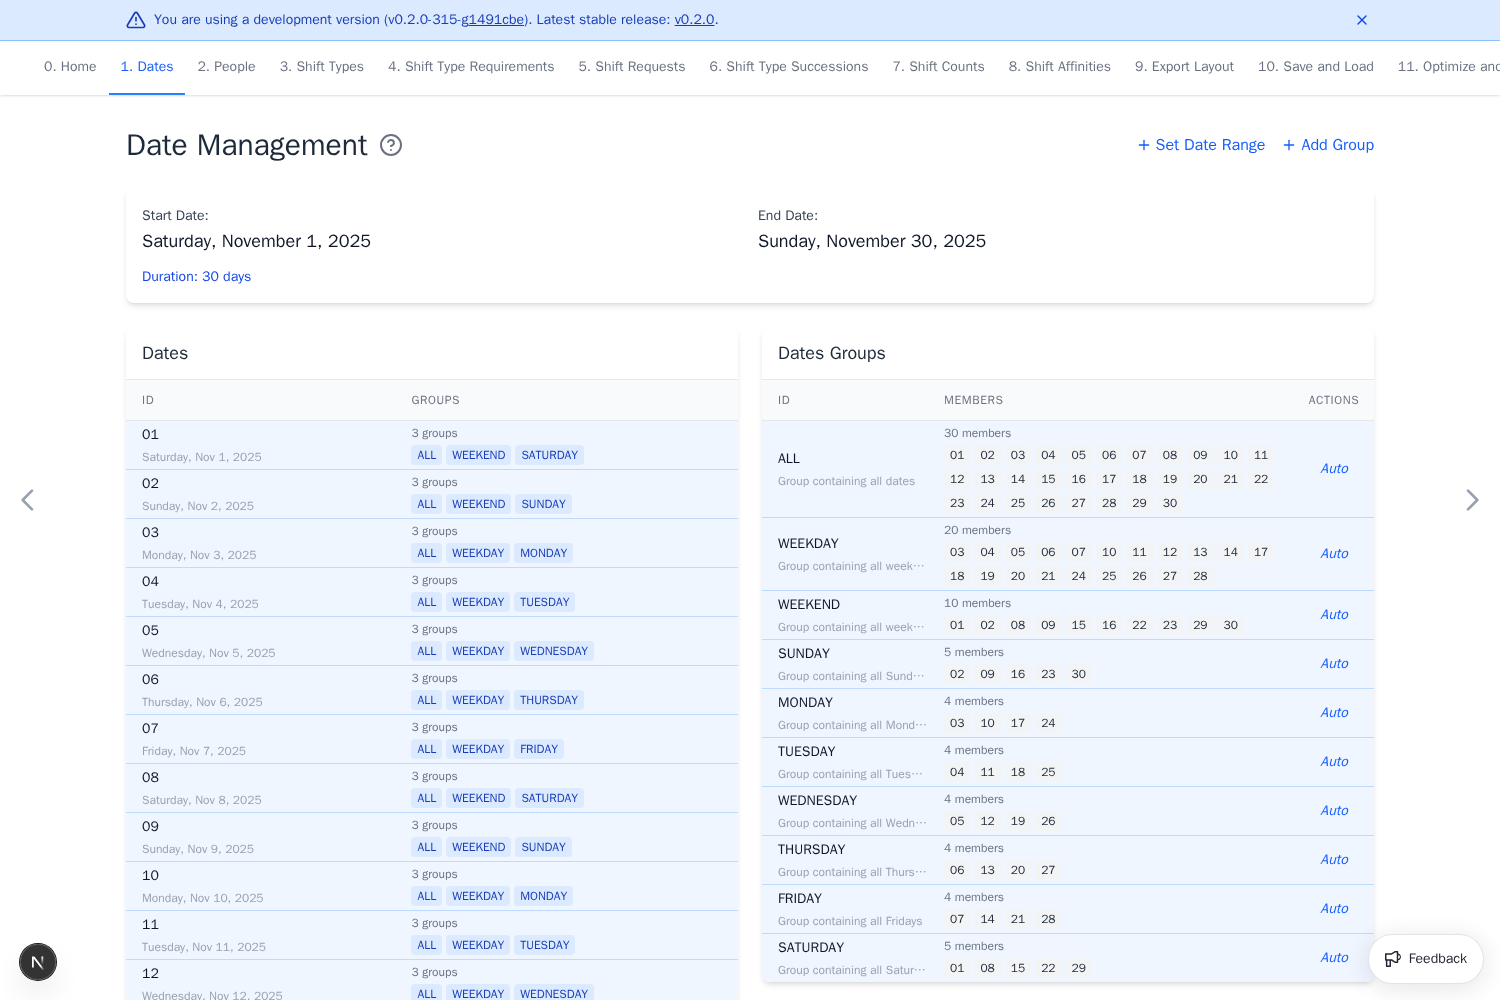
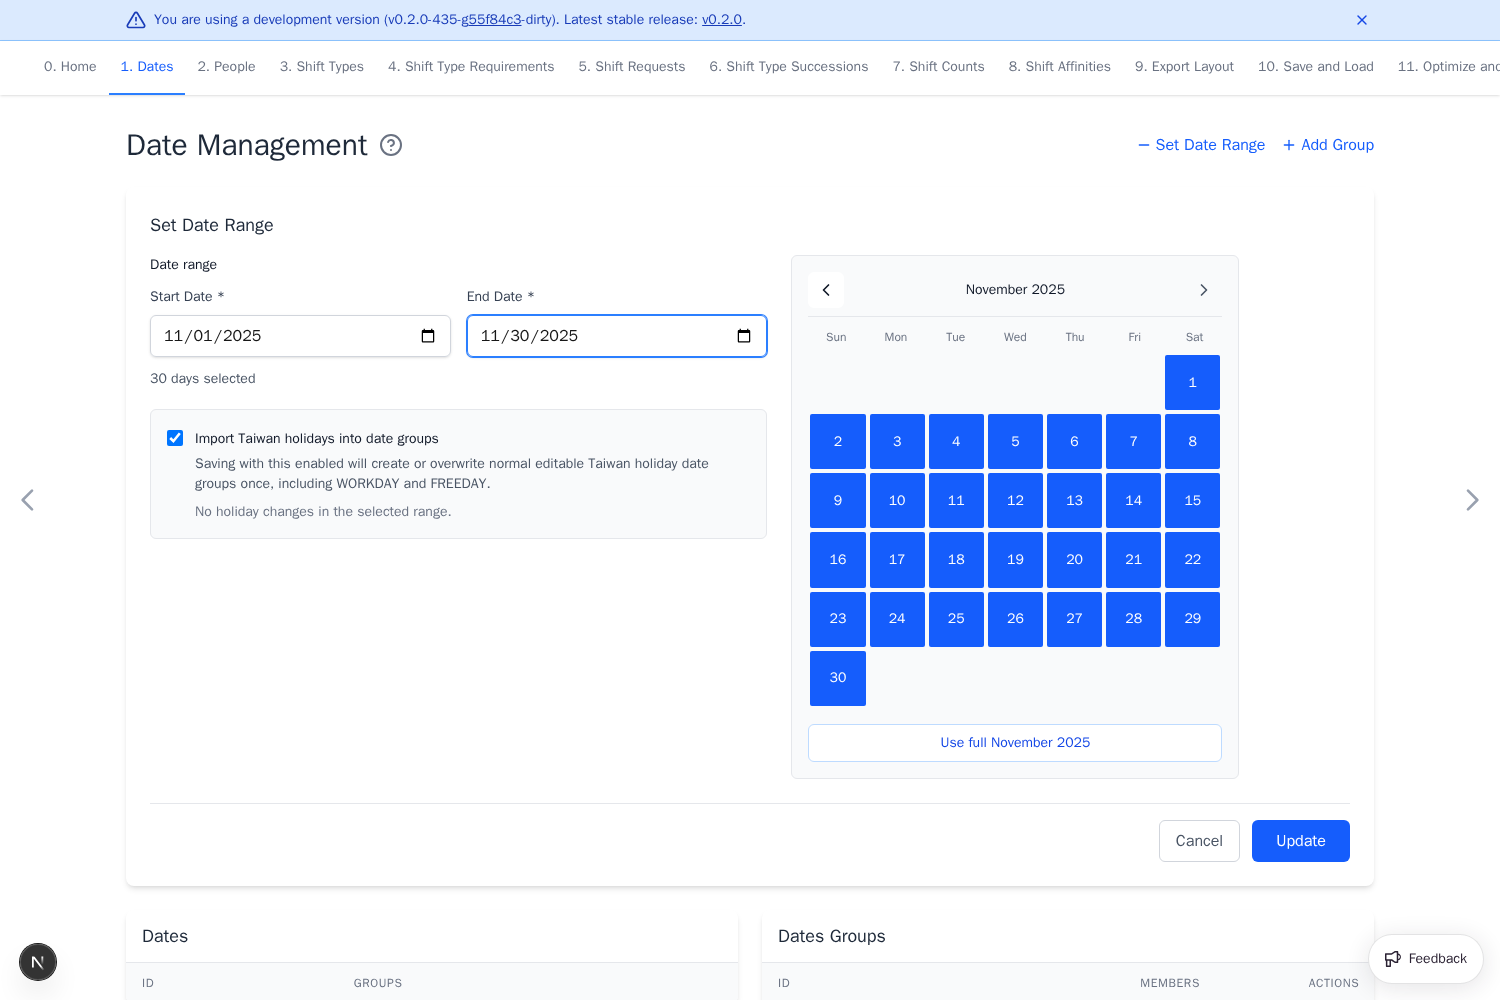
docs: use Taiwan holiday import in ward walkthrough
Align the canonical November example and reference with the frontend-generated WORKDAY and FREEDAY descriptions. Update the date steps and screenshots so the walkthrough can leave the import enabled.

Validation: real assignment replay and loader tests passed (21); frontend holiday, Dates, and bundled-example tests passed (28); strict Zensical build and Playwright screenshot inspection passed.

by Codex (gpt-6-sol)

diff --git a/docs/content/user-guide/build-a-real-schedule.md b/docs/content/user-guide/build-a-real-schedule.md
@@ -7,8 +7,9 @@ Download** produces a YAML file that matches the bundled example
 (`large-ward-with-87-people-2025-11.yaml`), except for the `appVersion` stamp
 (see [Validate the result](#validate-the-result)).
 
-People are anonymized as `P1` through `P87`. Group descriptions keep the
-original ward's mix of English and Chinese labels.
+People are anonymized as `P1` through `P87`. Most group descriptions keep the
+original ward's mix of English and Chinese labels. The imported calendar groups
+use the app's descriptions.
 
 In practice, a ward often starts with an Excel grid: people in rows, dates in
 columns, and staffing levels, requests, roles, and previous-month shifts in or
@@ -92,17 +93,18 @@ imported from a file.
 2. Open **Dates** and select **Set Date Range**.
 3. Set the start date to `2025-11-01` and the end date to `2025-11-30` (30 days
    selected).
-4. Leave **Import Taiwan holidays into date groups** unchecked; the ward defines
-   its own `WORKDAY` and `FREEDAY` groups in step 5.
+4. Keep **Import Taiwan holidays into date groups** checked. This creates
+   `WORKDAY` and `FREEDAY` with the descriptions in `reference.yaml`.
 5. Select **Update**.
 
-The app creates one date item per day (`01`–`30`) and the automatic groups
-`ALL`, `WEEKDAY`, `WEEKEND`, and the weekday names.
+The app creates one date item per day (`01`–`30`), the automatic groups
+`ALL`, `WEEKDAY`, `WEEKEND`, and the weekday names, plus the imported Taiwan
+`WORKDAY` and `FREEDAY` groups.
 For another ward or month, the Taiwan calendar import can be a starting point.
 Confirm the resulting workday and freeday groups against the ward's actual
 calendar before using them in staffing or fairness rules.
 
-![November 1–30 range with the automatic date groups](../assets/images/user-guide/build-a-real-schedule/build-real-dates-range.png)
+![November 1–30 range with Taiwan holiday import checked](../assets/images/user-guide/build-a-real-schedule/build-real-dates-range.png)
 
 ## 2. Create the shift types
 
@@ -158,8 +160,9 @@ may need abbreviation and repetition cleanup before it matches this format.
 
 ## 5. Create the date groups
 
-The November 1–30 range is already set. Create the five ward date groups listed
-under `dateGroups` in `reference.yaml`:
+The November 1–30 range is already set. The Taiwan calendar import creates
+`WORKDAY` and `FREEDAY`. Create the other three groups listed under
+`dateGroups` in `reference.yaml`:
 
 | ID | Members |
 | --- | --- |
@@ -171,7 +174,7 @@ under `dateGroups` in `reference.yaml`:
 
 Open **Dates**, select **Add Group**, enter the ID and description, and select
 the member dates (the **List view** checkbox list is easiest for many members).
-Keep the creation order from `reference.yaml`.
+Create `Freeday shift right`, `Before 4`, and `After 4` in that order.
 
 `FREEDAY` contains the ten weekends in this month. `Freeday shift right`
 contains the following dates for nine of them because November 30 falls at
